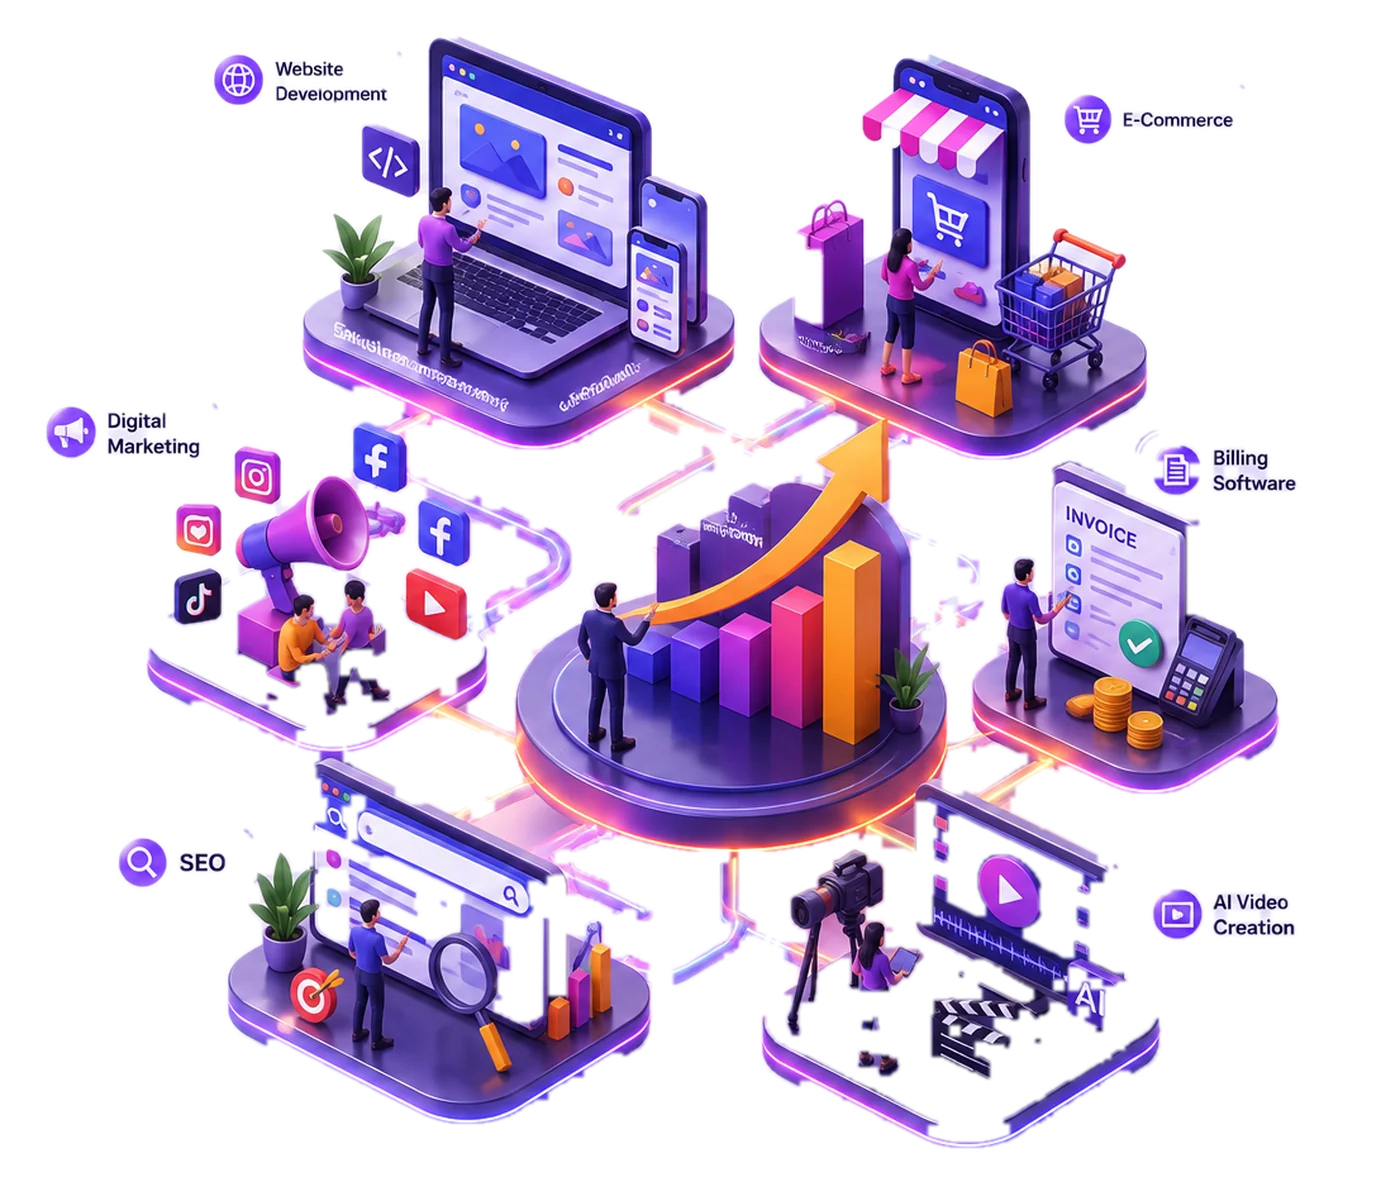
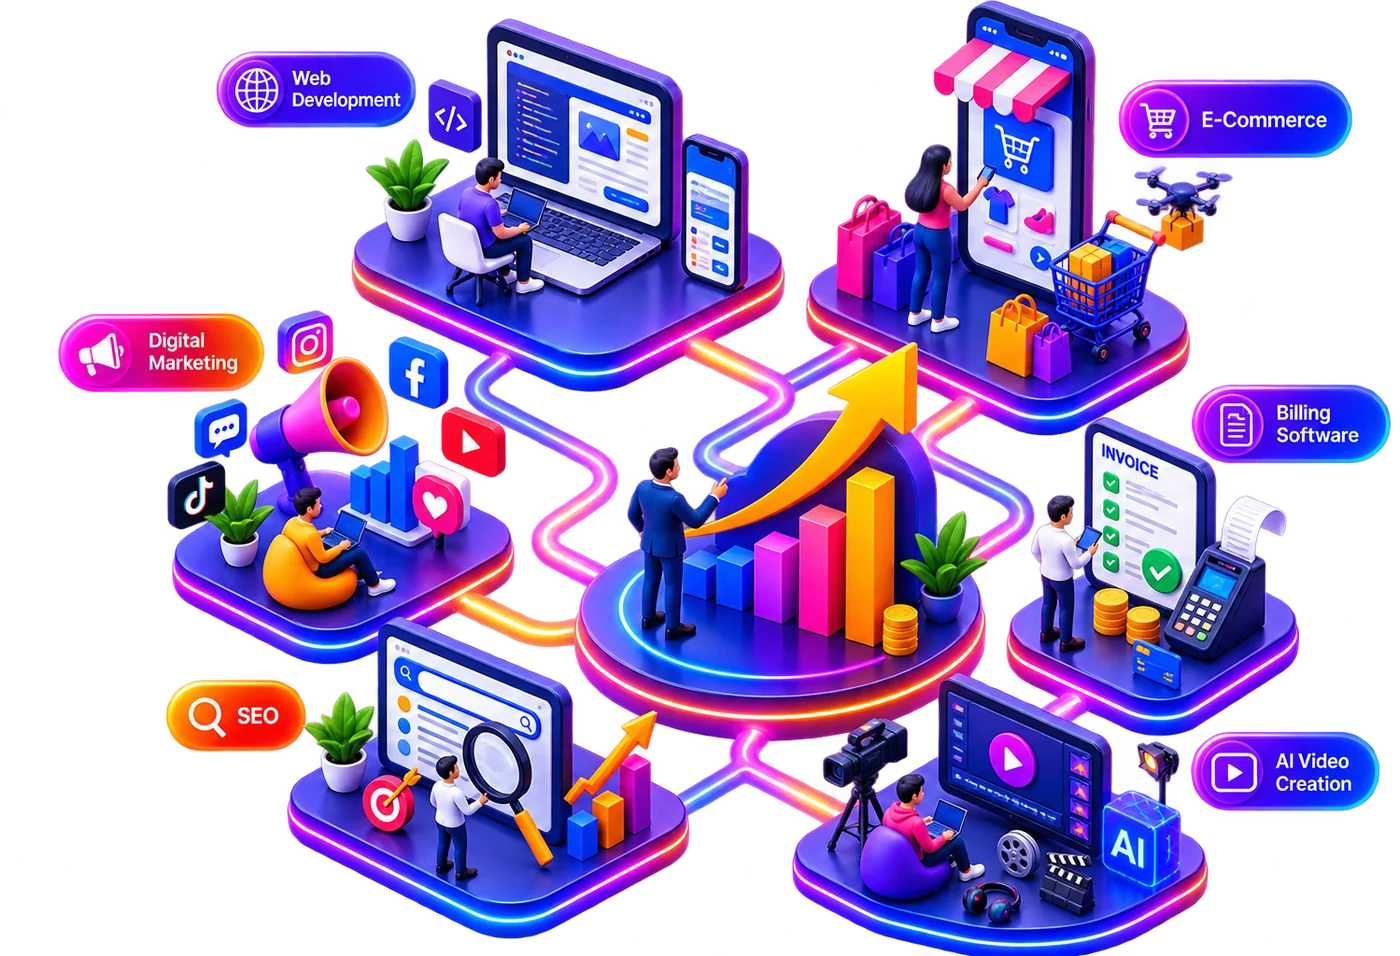
Update hero image with new gradient-pill label design

diff --git a/js/components/homeSections.js b/js/components/homeSections.js
@@ -209,7 +209,7 @@
           h("img", {
             class: "hero-ecosystem-img", src: "assets/hero-ecosystem.png",
             alt: "Illustration of ShutterLockSolutions' connected digital services — website development, e-commerce, billing software, digital marketing, SEO and AI video — growing a business",
-            width: "1400", height: "1177", loading: "eager", fetchpriority: "high",
+            width: "1400", height: "956", loading: "eager", fetchpriority: "high",
           }),
         ]),
       ]);
